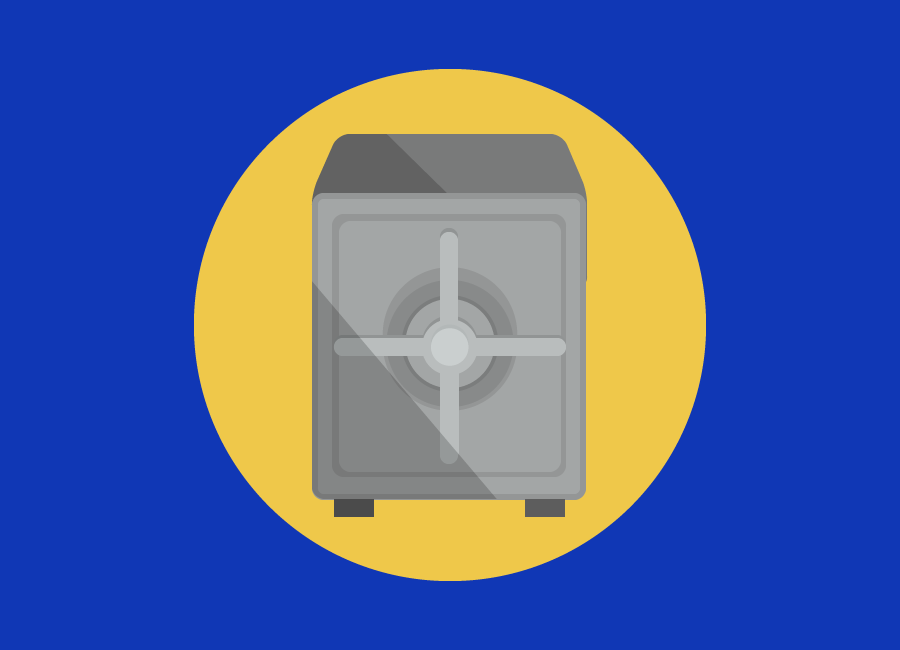
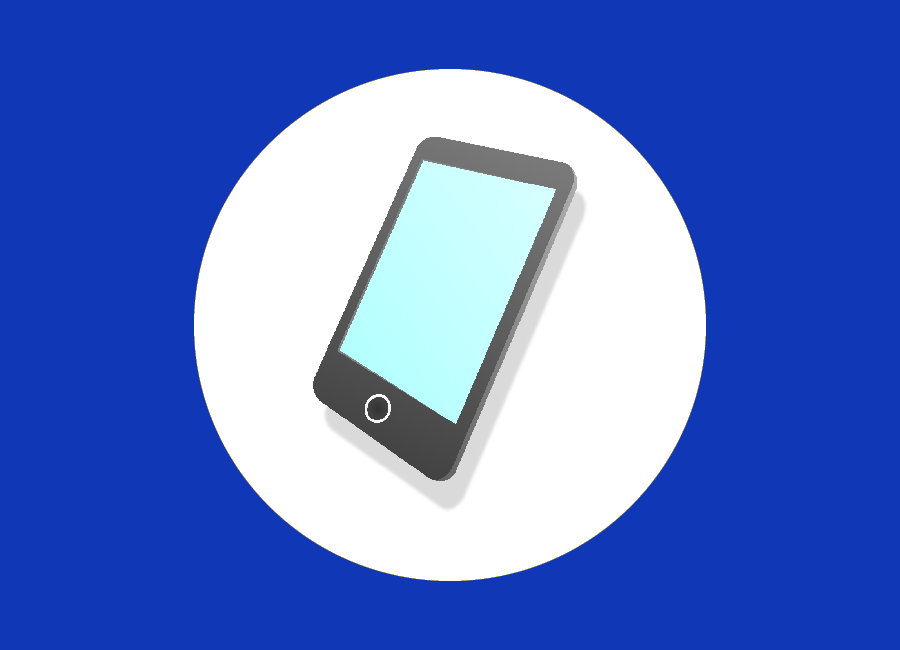
version 1.0.0

diff --git a/index.html b/index.html
@@ -9,7 +9,7 @@
     <meta name="description" content="" />
     <meta name="author" content="" />
 
-    <title>Amneet Sandhu!</title>
+    <title>Amneet Sandhu</title>
 
     <!-- Custom fonts for this theme -->
     <link
@@ -129,7 +129,7 @@
         <!-- Portfolio Grid Items -->
         <div class="row">
           <!-- Portfolio Item 1 -->
-          <div class="col-md-6 col-lg-4">
+          <!-- <div class="col-md-6 col-lg-4">
             <div
               class="portfolio-item mx-auto"
               data-toggle="modal"
@@ -146,10 +146,10 @@
               </div>
               <img class="img-fluid" src="img/portfolio/cabin.png" alt="" />
             </div>
-          </div>
+          </div> -->
 
           <!-- Portfolio Item 2 -->
-          <div class="col-md-6 col-lg-4">
+          <!-- <div class="col-md-6 col-lg-4">
             <div
               class="portfolio-item mx-auto"
               data-toggle="modal"
@@ -166,7 +166,7 @@
               </div>
               <img class="img-fluid" src="img/portfolio/cake.png" alt="" />
             </div>
-          </div>
+          </div> -->
 
           <!-- Portfolio Item 3 -->
           <div class="col-md-6 col-lg-4">
@@ -184,7 +184,7 @@
                   <i class="fas fa-plus fa-3x"></i>
                 </div>
               </div>
-              <img class="img-fluid" src="img/portfolio/circus.png" alt="" />
+              <img class="img-fluid" src="img/portfolio/cart.png" alt="" />
             </div>
           </div>
 
@@ -229,7 +229,7 @@
           </div>
 
           <!-- Portfolio Item 6 -->
-          <div class="col-md-6 col-lg-4">
+          <!-- <div class="col-md-6 col-lg-4">
             <div
               class="portfolio-item mx-auto"
               data-toggle="modal"
@@ -247,7 +247,7 @@
               <img class="img-fluid" src="img/portfolio/submarine.png" alt="" />
             </div>
           </div>
-        </div>
+        </div> -->
         <!-- /.row -->
       </div>
     </section>
@@ -518,30 +518,33 @@
                   <h2
                     class="portfolio-modal-title text-secondary text-uppercase mb-0"
                   >
-                    Circus Tent
+                    Poke-Zon
                   </h2>
                   <!-- Icon Divider -->
                   <div class="divider-custom">
                     <div class="divider-custom-line"></div>
                     <div class="divider-custom-icon">
-                      <i class="fas fa-star"></i>
+                      <i class="fas fa-shopping-cart"></i>
                     </div>
                     <div class="divider-custom-line"></div>
                   </div>
                   <!-- Portfolio Modal - Image -->
-                  <img
+                  <!-- <img
                     class="img-fluid rounded mb-5"
-                    src="img/portfolio/circus.png"
+                    src="img/portfolio/cart.png"
                     alt=""
-                  />
+                  /> -->
                   <!-- Portfolio Modal - Text -->
                   <p class="mb-5">
-                    Lorem ipsum dolor sit amet, consectetur adipisicing elit.
-                    Mollitia neque assumenda ipsam nihil, molestias magnam,
-                    recusandae quos quis inventore quisquam velit asperiores,
-                    vitae? Reprehenderit soluta, eos quod consequuntur itaque.
-                    Nam.
+                      •	An ecommerce platform for selling Pokémon from the classic anime series.
                   </p>
+                  <p class="mb-5"> • Users can sign up/login, add multiple Pokémon to their shopping cart and checkout (saves order to database)
+                     </p>
+                     <p class="mb-5"> •	Built with Node.JS, React, Redux, Sequelize, Postgres and Express
+                </p>
+                <a class="mb-5" text-center href='https://poke-zon.herokuapp.com'><p>Check It Out!</p></a>
+                <br>
+                <br>
                   <button class="btn btn-primary" href="#" data-dismiss="modal">
                     <i class="fas fa-times fa-fw"></i>
                     Close Window
@@ -589,16 +592,16 @@
                   <div class="divider-custom">
                     <div class="divider-custom-line"></div>
                     <div class="divider-custom-icon">
-                      <i class="fas fa-star"></i>
+                      <i class="fas fa-gamepad"></i>
                     </div>
                     <div class="divider-custom-line"></div>
                   </div>
                   <!-- Portfolio Modal - Image -->
-                  <img
+                  <!-- <img
                     class="img-fluid rounded mb-5"
                     src="img/portfolio/game.png"
                     alt=""
-                  />
+                  /> -->
                   <!-- Portfolio Modal - Text -->
                   <p class="mb-5">
                       •	A new twist on the classic game, Tetris Pose allows players to use their body gesture poses to play Tetris!
@@ -651,30 +654,33 @@
                   <h2
                     class="portfolio-modal-title text-secondary text-uppercase mb-0"
                   >
-                    Locked Safe
+                    Save A Friend!
                   </h2>
                   <!-- Icon Divider -->
                   <div class="divider-custom">
                     <div class="divider-custom-line"></div>
                     <div class="divider-custom-icon">
-                      <i class="fas fa-star"></i>
+                      <i class="fas fa-mobile-alt"></i>
                     </div>
                     <div class="divider-custom-line"></div>
                   </div>
                   <!-- Portfolio Modal - Image -->
-                  <img
+                  <!-- <img
                     class="img-fluid rounded mb-5"
                     src="img/portfolio/safe.png"
                     alt=""
-                  />
+                  /> -->
                   <!-- Portfolio Modal - Text -->
                   <p class="mb-5">
-                    Lorem ipsum dolor sit amet, consectetur adipisicing elit.
-                    Mollitia neque assumenda ipsam nihil, molestias magnam,
-                    recusandae quos quis inventore quisquam velit asperiores,
-                    vitae? Reprehenderit soluta, eos quod consequuntur itaque.
-                    Nam.
+                      •	Mobile App featuring real time GPS built to create lost animal post requests to engage user community
                   </p>
+                  <p class="mb-5"> •	Users can sign up/login, track their current location and create a lost animal post that saves to a Firebase database
+                     </p>
+                     <p class="mb-5"> •	•	Self-taught React Native and Firebase within 4 days to build a user and developer friendly app
+                </p>
+                <a class="mb-5" text-center href='https://github.com/amneet954/SAF-FSA'><p>Check Out My GitHub Repo!</p></a>
+                <br>
+                <br>
                   <button class="btn btn-primary" href="#" data-dismiss="modal">
                     <i class="fas fa-times fa-fw"></i>
                     Close Window
